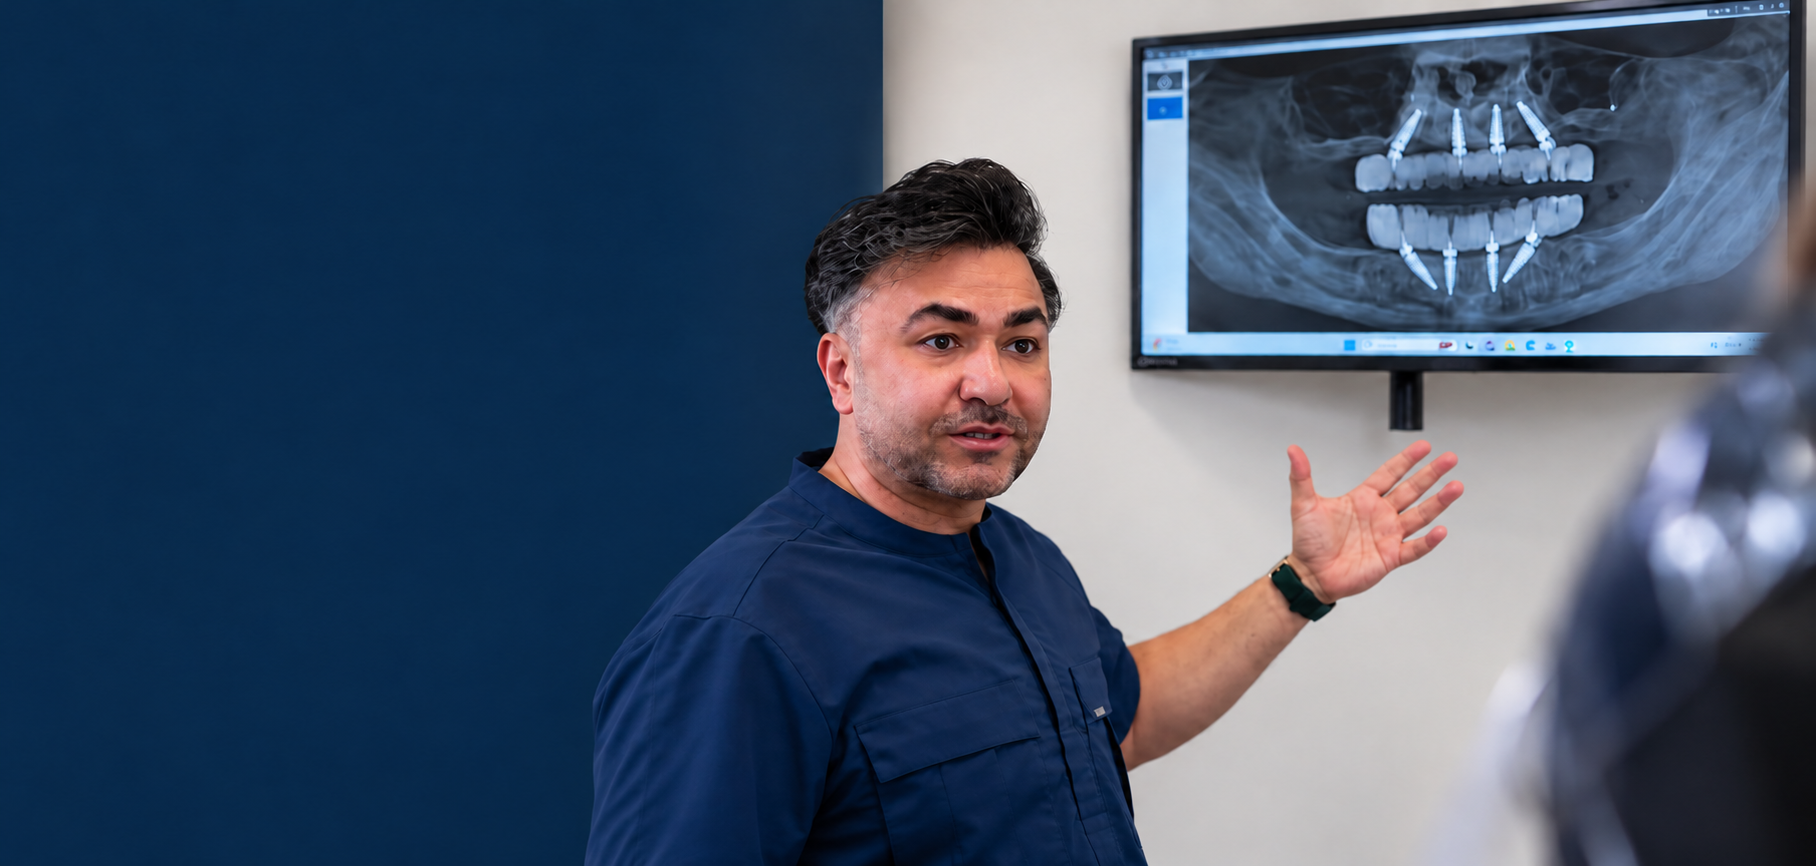
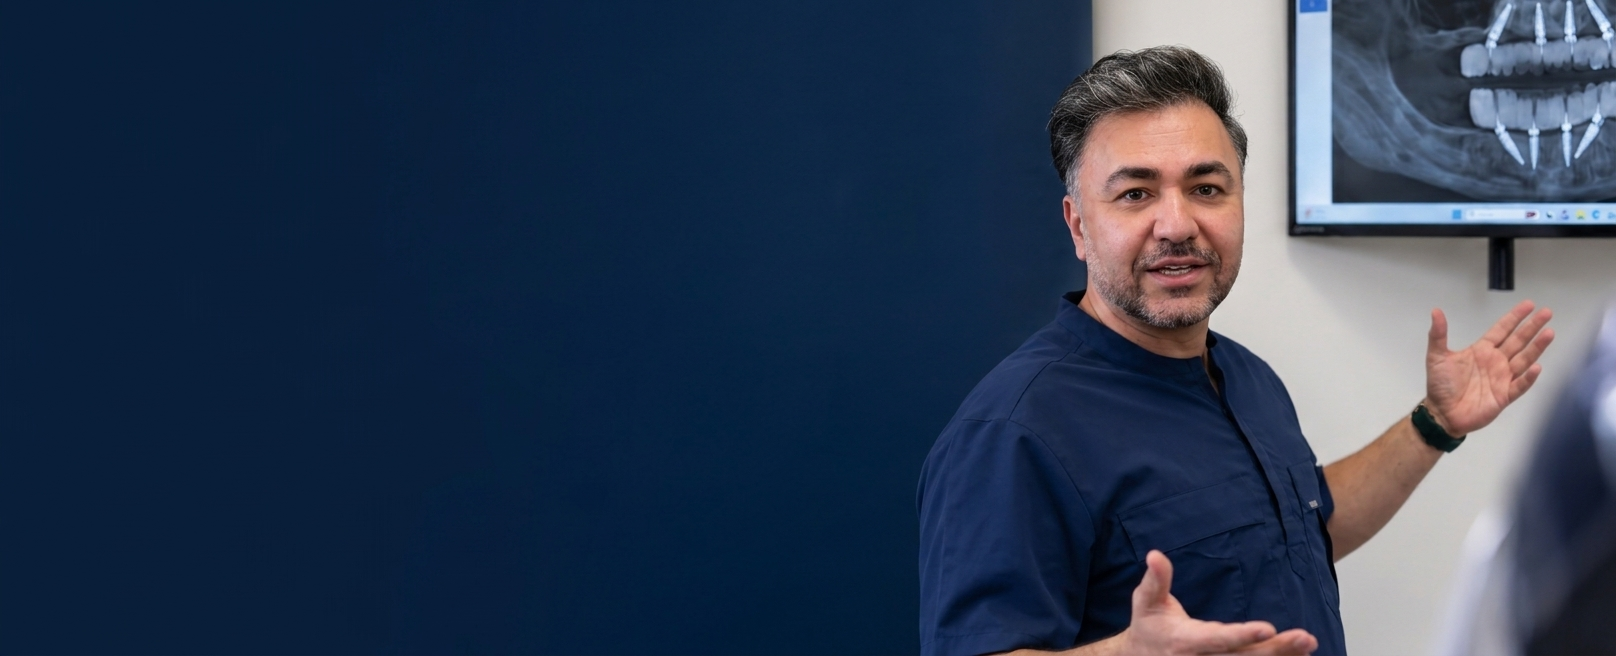
Update site links and responsive IV and pricing imagery

diff --git a/src/pages/IV/IV.css b/src/pages/IV/IV.css
@@ -9,11 +9,14 @@
 .iv p { font-size: var(--type-body); font-weight: var(--weight-regular); line-height: var(--leading-body); }
 .iv .iv__eyebrow { display: flex; align-items: center; gap: 14px; color: var(--brand-gold); font-size: var(--type-label); font-weight: var(--weight-bold); line-height: var(--leading-body); letter-spacing: var(--tracking-label); text-transform: uppercase; }
 .iv .iv__eyebrow--line::after, .iv .iv__eyebrow--center::before, .iv .iv__eyebrow--center::after { content: ''; width: 52px; height: 1px; background: var(--brand-gold); }
-.iv .iv__hero { position: relative; display: flex; align-items: center; min-height: max(440px, 24vw); isolation: isolate; }
-/* Keep the source's space above the doctor's hair when cover crops vertically. */
-.iv .iv__hero-image { position: absolute; inset: 0; z-index: -1; width: 100%; height: 100%; object-fit: cover; object-position: center top; }
+.iv .iv__hero { position: relative; display: flex; align-items: flex-start; min-height: 0; aspect-ratio: 2910 / 1440; box-sizing: border-box; isolation: isolate; }
+.iv .iv__hero.iv__section { padding-block: clamp(48px, 5vw, 90px) 0; }
+/* Preserve the complete photograph, including the book and the doctor's head. */
+.iv .iv__hero-image { position: absolute; inset: 0; z-index: -2; width: 100%; height: 100%; object-fit: contain; }
+.iv .iv__hero::before { content: ''; position: absolute; inset: 0 auto 0 0; width: 58%; z-index: -1; background: linear-gradient(to bottom, rgb(244 241 236 / 88%), rgb(244 241 236 / 72%) 56%, transparent 78%); mask-image: linear-gradient(to right, #000 75%, transparent); pointer-events: none; }
 .iv .iv__hero-copy { width: 49%; max-width: 590px; }
 .iv .iv__hero-copy h1 { margin-top: 12px; }
+.iv .iv__hero-copy h1 { font-size: clamp(36px, 3.6vw, 56px); }
 .iv .iv__hero-copy > p:not(.iv__eyebrow) { margin-top: 20px; max-width: 540px; }
 .iv .iv__actions { display: flex; align-items: center; flex-wrap: wrap; gap: 28px; margin-top: 22px; }
 .iv .iv__cta { display: inline-flex; align-items: center; justify-content: center; gap: 14px; min-height: 40px; padding: 12px 19px; border: 1px solid var(--brand-navy); border-radius: 2px; color: var(--brand-white); background: var(--brand-navy); text-decoration: none; text-align: center; font-size: var(--type-cta); font-weight: var(--weight-bold); line-height: var(--leading-cta); letter-spacing: var(--tracking-cta); text-transform: uppercase; transition: background-color 180ms ease, border-color 180ms ease, color 180ms ease; }
@@ -62,11 +65,13 @@
 .iv .iv__patient-copy > p:not(.iv__eyebrow) { margin-top: 24px; color: var(--brand-gray); }
 .iv .iv__patient-copy .iv__cta { margin-top: 28px; gap: 0; }
 @media (max-width: 1024px) {
-  .iv .iv__hero { flex-direction: column; min-height: 0; }
+  .iv .iv__hero { flex-direction: column; min-height: 0; aspect-ratio: auto; }
+  .iv .iv__hero.iv__section { padding-block: var(--section-space) 0; }
+  .iv .iv__hero::before { display: none; }
   .iv .iv__hero > .iv__inner { order: -1; }
   .iv .iv__hero-copy { width: 100%; max-width: 640px; }
   .iv .iv__hero-copy .iv__desktop-break { display: none; }
-  .iv .iv__hero-image { position: static; width: 100%; height: clamp(300px, 42vw, 430px); margin-top: 24px; object-position: right top; }
+  .iv .iv__hero-image { position: static; width: 100%; height: auto; margin-top: 24px; }
   .iv .iv__anxiety-content { gap: 24px; }
   .iv .iv__patient-copy { padding: 28px; }
   .iv .iv__patient-card > img { min-height: 520px; }
@@ -85,7 +90,7 @@
   .iv .iv__hero > .iv__inner { order: -1; }
   .iv .iv__hero-copy { width: 100%; }
   .iv .iv__hero::after { display: none; }
-  .iv .iv__hero-image { position: static; width: 100%; height: 280px; margin-top: 24px; object-position: right top; }
+  .iv .iv__hero-image { position: static; width: 100%; height: auto; margin-top: 24px; }
   .iv .iv__actions { gap: 18px; }
   .iv .iv__anxiety-content { flex-direction: column; gap: 20px; text-align: center; }
   .iv .iv__anxiety-content > .iv__anxiety-icon { width: 100px; height: 100px; }

diff --git a/src/pages/PricingFinancing/PricingFinancing.css b/src/pages/PricingFinancing/PricingFinancing.css
@@ -50,15 +50,22 @@
 /* Square implant files include transparent margins around the product. */
 .pricing-financing__design--implant img { width: 200px; height: 200px; max-width: 100%; flex-shrink: 0; }
 .pricing-financing__consultation { position: relative; isolation: isolate; overflow: hidden; }
-.pricing-financing__consultation::before { content: ''; position: absolute; inset: 0; z-index: -1; background: linear-gradient(90deg, var(--brand-navy) 36%, transparent 48%); mask-image: linear-gradient(to bottom, #000 35%, transparent 72%); pointer-events: none; }
+.pricing-financing__consultation::before { content: ''; position: absolute; inset: 0 0 0 50%; z-index: -1; background: linear-gradient(90deg, var(--brand-navy), transparent 8%); pointer-events: none; }
 .pricing-financing__consultation-grid { display: grid; grid-template-columns: .85fr 1.15fr; align-items: center; gap: 40px; min-height: clamp(360px, 36vw, 520px); }
 .pricing-financing__consultation-copy h2 { font-size: var(--type-h1); line-height: var(--leading-h1); }
 .pricing-financing__consultation-copy h2 span { color: var(--brand-gold); }
-.pricing-financing__consultation-photo { position: absolute; inset: 0 -4% 0 auto; z-index: -2; display: block; width: 66%; height: 100%; object-fit: cover; object-position: left center; }
-.pricing-financing__consultation-photo img { display: block; width: 100%; height: 100%; object-fit: cover; object-position: left center; }
-@media (min-width: 1025px) {
-  .pricing-financing__consultation-photo { width: 104%; }
-  .pricing-financing__consultation::before { background: linear-gradient(90deg, var(--brand-navy), transparent 30%); mask-image: none; }
+.pricing-financing__consultation-copy { min-width: 0; }
+.pricing-financing__consultation-photo { position: absolute; inset: 0 0 0 auto; z-index: -2; display: block; width: 50%; height: 100%; }
+.pricing-financing__consultation-photo img { display: block; width: 100%; height: 100%; object-fit: cover; object-position: 90% center; }
+@media (min-width: 681px) and (max-width: 1200px) {
+  .pricing-financing__consultation-photo { width: 56%; }
+  .pricing-financing__consultation-photo img { object-position: 96% center; }
+  .pricing-financing__consultation::before { left: 44%; }
+}
+@media (min-width: 1201px) {
+  .pricing-financing__consultation-photo { width: 56%; }
+  .pricing-financing__consultation-photo img { object-position: right center; }
+  .pricing-financing__consultation::before { left: 44%; }
 }
 @media (max-width: 1024px) {
   .pricing-financing__hero { display: block; min-height: 0; }
@@ -68,8 +75,7 @@
   .pricing-financing__offer-grid { gap: 32px; }
   .pricing-financing__offer-includes { padding-left: 32px; }
   .pricing-financing__consultation-grid { grid-template-columns: 1fr 1fr; gap: 24px; }
-  .pricing-financing__consultation-photo { right: 0; width: 62%; }
-  .pricing-financing__consultation-photo img { object-position: right center; }
+  .pricing-financing__consultation-grid { grid-template-columns: minmax(0, .9fr) minmax(0, 1.1fr); }
   .pricing-financing__consultation-copy h2 { font-size: var(--type-h2); line-height: var(--leading-headline); }
 }
 @media (max-width: 680px) {
@@ -104,4 +110,7 @@
   .pricing-financing h1, .pricing-financing h2, .pricing-financing h3 { overflow-wrap: anywhere; }
 }
 @media (max-width: 360px) { .pricing-financing__container { width: calc(100% - 32px); } }
+@media (width: 768px) and (height: 1024px) {
+  .pricing-financing__consultation-photo img { object-fit: contain; object-position: right bottom; width: 210%; max-width: none; margin-left: -110%; }
+}
 @media (prefers-reduced-motion: reduce) { .pricing-financing__cta { transition: none; } }

diff --git a/src/pages/Dentures/Dentures.jsx b/src/pages/Dentures/Dentures.jsx
@@ -22,11 +22,11 @@ import after3 from '../../assets/dentures/actualPatientJourney/After3.png'
 import './Dentures.css'
 import PatientComparison from './PatientJourneyComparison'
 
-const officeContact = '/contact/schedule-consultation'
+const officeContact = 'tel:6612316323'
 
-function Consultation({ children = 'Book a Free Consultation', variant = 'light' }) {
-  return <a className={'dentures__cta dentures__cta--on-' + variant} href={officeContact}>
-    <svg viewBox="0 0 24 24" aria-hidden="true"><path d="M6.6 10.8a15.4 15.4 0 0 0 6.6 6.6l2.2-2.2c.3-.3.7-.4 1-.2 1.1.4 2.3.6 3.6.6.6 0 1 .4 1 1V20c0 .6-.4 1-1 1A17 17 0 0 1 3 4c0-.6.4-1 1-1h3.5c.6 0 1 .4 1 1 0 1.3.2 2.5.6 3.6.1.4 0 .8-.2 1l-2.3 2.2Z" /></svg>
+function Consultation({ children = 'Book a Free Consultation', variant = 'light', href = officeContact }) {
+  return <a className={'dentures__cta dentures__cta--on-' + variant} href={href}>
+    {href.startsWith('tel:') && <svg viewBox="0 0 24 24" aria-hidden="true"><path d="M6.6 10.8a15.4 15.4 0 0 0 6.6 6.6l2.2-2.2c.3-.3.7-.4 1-.2 1.1.4 2.3.6 3.6.6.6 0 1 .4 1 1V20c0 .6-.4 1-1 1A17 17 0 0 1 3 4c0-.6.4-1 1-1h3.5c.6 0 1 .4 1 1 0 1.3.2 2.5.6 3.6.1.4 0 .8-.2 1l-2.3 2.2Z" /></svg>}
     {children}<span aria-hidden="true">→</span>
   </a>
 }
@@ -121,7 +121,7 @@ function FoodComparison() {
       <p className="dentures__food-label">{row === 2 ? 'Enjoy your favorite foods again' : 'Commonly enjoyed foods'}</p>
       <ul className="dentures__foods">{option.foods.map((food, col) => <li key={food}><span className="dentures__food-icon" aria-hidden="true" style={{ backgroundPosition: col * 100 / 3 + '% ' + row * 50 + '%' }} /><span>{food}</span></li>)}</ul>
     </article>)}</div>
-    <div className="dentures__actions"><Consultation>Schedule a Consultation</Consultation><p className="dentures__eyebrow">Discover what may be possible for you.</p></div>
+    <div className="dentures__actions"><Consultation href="/contact/schedule-consultation">Schedule a Consultation</Consultation><p className="dentures__eyebrow">Discover what may be possible for you.</p></div>
   </div></section>
 }
 

diff --git a/src/components/DentalImplantsPatientStorySection/DentalImplantsPatientStorySection.jsx b/src/components/DentalImplantsPatientStorySection/DentalImplantsPatientStorySection.jsx
@@ -1,8 +1,7 @@
-import { Link } from 'react-router-dom'
+import VideoButton from '../VideoButton/VideoButton'
+import videoSource from '../../assets/IV/iv-tarkesh.mp4'
 import patientStoryPreview from '../../assets/dentalImplants/patientStoryPreview.png'
 import './DentalImplantsPatientStorySection.css'
-
-const patientStoryVideoPath = '/why-dr-tarkesh/meet-dr-tarkesh#patient-story-video'
 
 function DentalImplantsPatientStorySection() {
   return (
@@ -11,10 +10,12 @@ function DentalImplantsPatientStorySection() {
       aria-labelledby="dental-implants-patient-story-heading"
     >
       <div className="dental-implants-patient-story__inner">
-        <Link
+        <VideoButton
           className="dental-implants-patient-story__preview-link"
-          to={patientStoryVideoPath}
-          aria-label="Watch the patient story with Dr. Tarkesh"
+          src={videoSource}
+          poster={patientStoryPreview}
+          title="Dr. Tarkesh discusses dentures and dental implants"
+          label="Watch the patient story with Dr. Tarkesh"
         >
           <img
             className="dental-implants-patient-story__image"
@@ -24,7 +25,7 @@ function DentalImplantsPatientStorySection() {
           <span className="dental-implants-patient-story__play" aria-hidden="true">
             <span className="dental-implants-patient-story__play-icon" />
           </span>
-        </Link>
+        </VideoButton>
 
         <div className="dental-implants-patient-story__content">
           <p className="dental-implants-patient-story__eyebrow">PATIENT STORY</p>

diff --git a/src/components/VideoButton/VideoButton.jsx b/src/components/VideoButton/VideoButton.jsx
@@ -1,0 +1,32 @@
+import { useRef } from 'react'
+import './VideoButton.css'
+
+export default function VideoButton({ className, src, title, label, poster, children }) {
+  const dialogRef = useRef(null)
+  const videoRef = useRef(null)
+
+  function openVideo() {
+    dialogRef.current.showModal()
+    videoRef.current.play().catch(() => {
+      // Keep native controls available if the browser blocks autoplay.
+    })
+  }
+
+  function closeOnBackdrop(event) {
+    if (event.target !== event.currentTarget) return
+    const bounds = event.currentTarget.getBoundingClientRect()
+    if (event.clientX < bounds.left || event.clientX > bounds.right || event.clientY < bounds.top || event.clientY > bounds.bottom) {
+      dialogRef.current.close()
+    }
+  }
+
+  return <>
+    <button className={className} type="button" aria-label={label} aria-haspopup="dialog" onClick={openVideo}>
+      {children}
+    </button>
+    <dialog ref={dialogRef} className="video-dialog" aria-label={title} onClose={() => videoRef.current.pause()} onClick={closeOnBackdrop}>
+      <button className="video-dialog__close" type="button" aria-label="Close video" onClick={() => dialogRef.current.close()}>×</button>
+      <video ref={videoRef} src={src} poster={poster} controls playsInline preload="none" aria-label={title} />
+    </dialog>
+  </>
+}

diff --git a/src/pages/IV/IV.jsx b/src/pages/IV/IV.jsx
@@ -1,6 +1,6 @@
 import { useRef, useState } from 'react'
 import { Link } from 'react-router-dom'
-import heroImage from '../../assets/IV/iv-hero.png'
+import heroImage from '../../assets/IV/iv-hero-1.png'
 import patientImage from '../../assets/IV/iv-patient-consultation.png'
 import videoSource from '../../assets/IV/sedation-dentistry.mp4'
 import videoPoster from '../../assets/IV/sedation-dentistry-poster.jpg'
@@ -60,7 +60,7 @@ function IV() {
   return (
     <main className="iv">
       <section className="iv__section iv__hero" aria-labelledby="iv-title">
-        <img className="iv__hero-image" src={heroImage} alt="Dr. Tarkesh discussing dental care with a patient" fetchPriority="high" />
+        <img className="iv__hero-image" src={heroImage} alt="Dr. Tarkesh discussing dental care with a patient, with a People Not Just Teeth book on the table" width="2910" height="1440" fetchPriority="high" />
         <div className="iv__inner">
           <div className="iv__hero-copy">
             <p className="iv__eyebrow iv__eyebrow--line">IV Sedation</p>

diff --git a/src/components/TreatmentSolutionsSection/TreatmentSolutionsSection.jsx b/src/components/TreatmentSolutionsSection/TreatmentSolutionsSection.jsx
@@ -17,7 +17,7 @@ const treatments = [
     image: treatmentSolutionImage1,
     imageAlt: "Full-arch dental implant treatment",
     icon: oneDayTeethIcon,
-    path: "/dentures-and-implants/full-partial-dentures",
+    path: "/services/dentures",
   },
   {
     title: "Long-Term Solutions",
@@ -25,7 +25,7 @@ const treatments = [
     image: treatmentSolutionImage2,
     imageAlt: "Long-term dental implant solution",
     icon: longTermSolutionsIcon,
-    path: "/dentures-and-implants/dental-implants",
+    path: "/services/implants",
   },
   {
     title: "Complex Cases & Second Opinions",
@@ -34,7 +34,7 @@ const treatments = [
     image: treatmentSolutionImage3,
     imageAlt: "Advanced dental implant consultation",
     icon: complexCasesIcon,
-    path: "/patient-results/complex-cases",
+    path: "/services/complex-cases",
   },
 ];
 

diff --git a/src/components/TeethOptionsComparisonSection/TeethOptionsComparisonSection.jsx b/src/components/TeethOptionsComparisonSection/TeethOptionsComparisonSection.jsx
@@ -94,7 +94,7 @@ function TeethOptionsComparisonSection() {
             image={implantsStabilizedRemovable}
             imageAlt="Implant-stabilized removable upper denture supported by dental implants"
             variant="removable"
-            linkTo="/dentures-and-implants/implant-supported-dentures"
+            linkTo="/patient-resources/pricing-financing"
             linkLabel="EXPLORE REMOVABLE"
           />
           <OptionCard
@@ -106,7 +106,7 @@ function TeethOptionsComparisonSection() {
             image={fixedFullArch}
             imageAlt="Fixed full-arch upper implant-supported prosthetic teeth"
             variant="fixed"
-            linkTo="/dentures-and-implants/dental-implants"
+            linkTo="/patient-resources/pricing-financing"
             linkLabel="EXPLORE FIXED TEETH"
           />
         </div>

diff --git a/src/components/Navbar/NavbarDesktop.jsx b/src/components/Navbar/NavbarDesktop.jsx
@@ -87,9 +87,9 @@ function NavbarDesktop() {
         </nav>
 
         <div className="desktop-header__actions">
-          <a className="desktop-header__phone" href="tel:6611234567" aria-label="Call 661 123 4567">
+          <a className="desktop-header__phone" href="tel:6612316323" aria-label="Call 661 231 6323">
             <svg viewBox="0 0 24 24" aria-hidden="true"><path d="M6.6 10.8a15.4 15.4 0 0 0 6.6 6.6l2.2-2.2c.3-.3.7-.4 1-.2 1.1.4 2.3.6 3.6.6.6 0 1 .4 1 1V20c0 .6-.4 1-1 1A17 17 0 0 1 3 4c0-.6.4-1 1-1h3.5c.6 0 1 .4 1 1 0 1.3.2 2.5.6 3.6.1.4 0 .8-.2 1l-2.3 2.2Z" /></svg>
-            <span>661.123.4567</span>
+            <span>661.231.6323</span>
           </a>
           <Link className="desktop-header__cta" to="/contact/schedule-consultation">Book a Consultation</Link>
         </div>

diff --git a/src/components/DentalImplantsExpertiseSection/DentalImplantsExpertiseSection.jsx b/src/components/DentalImplantsExpertiseSection/DentalImplantsExpertiseSection.jsx
@@ -1,4 +1,5 @@
-import { Link } from 'react-router-dom'
+import VideoButton from '../VideoButton/VideoButton'
+import videoSource from '../../assets/IV/iv-tarkesh.mp4'
 import expertiseDoctor from '../../assets/dentalImplants/ExpertiseDoctor.png'
 import './DentalImplantsExpertiseSection.css'
 
@@ -110,12 +111,13 @@ function DentalImplantsExpertiseSection() {
           “It’s not just a dental change.”
         </blockquote>
 
-        <Link
+        <VideoButton
           className="dental-implants-expertise__cta"
-          to="/patient-results/before-after"
+          src={videoSource}
+          title="Dr. Tarkesh discusses dentures and dental implants"
         >
           SEE WHAT’S POSSIBLE
-        </Link>
+        </VideoButton>
       </div>
     </section>
   )

diff --git a/src/components/Footer/Footer.jsx b/src/components/Footer/Footer.jsx
@@ -17,8 +17,8 @@ const quickLinks = [
   ['Complex Cases', '/services/complex-cases'],
   ['Patient Results', '/smile-gallery/patient-results'],
   ['Meet Dr. Tarkesh', '/why-dr-tarkesh/meet-dr-tarkesh'],
-  ['New Patients', '/patient-resources/new-patient-forms'],
-  ['Contact', '/contact'],
+  ['New Patients', '/contact/schedule-consultation'],
+  ['Contact', '/contact/location-directions'],
 ]
 
 const routesWithoutTopDivider = new Set([
@@ -79,9 +79,9 @@ function Footer() {
 
               <a
                 className="site-footer__contact-link"
-                href="tel:6611234567"
+                href="tel:6612316323"
               >
-                (661) 123-4567
+                (661) 231-6323
               </a>
 
               <a

diff --git a/src/components/Navbar/NavbarMobile.jsx b/src/components/Navbar/NavbarMobile.jsx
@@ -112,9 +112,9 @@ function NavbarMobile() {
           </ul>
 
           <div className="mobile-nav__actions">
-            <a className="mobile-nav__phone" href="tel:6611234567" onClick={() => closeMenu()}>
+            <a className="mobile-nav__phone" href="tel:6612316323" onClick={() => closeMenu()}>
               <svg viewBox="0 0 24 24" aria-hidden="true"><path d="M6.6 10.8a15.4 15.4 0 0 0 6.6 6.6l2.2-2.2c.3-.3.7-.4 1-.2 1.1.4 2.3.6 3.6.6.6 0 1 .4 1 1V20c0 .6-.4 1-1 1A17 17 0 0 1 3 4c0-.6.4-1 1-1h3.5c.6 0 1 .4 1 1 0 1.3.2 2.5.6 3.6.1.4 0 .8-.2 1l-2.3 2.2Z" /></svg>
-              <span>661.123.4567</span>
+              <span>661.231.6323</span>
             </a>
             <Link
               className="mobile-header__cta"
